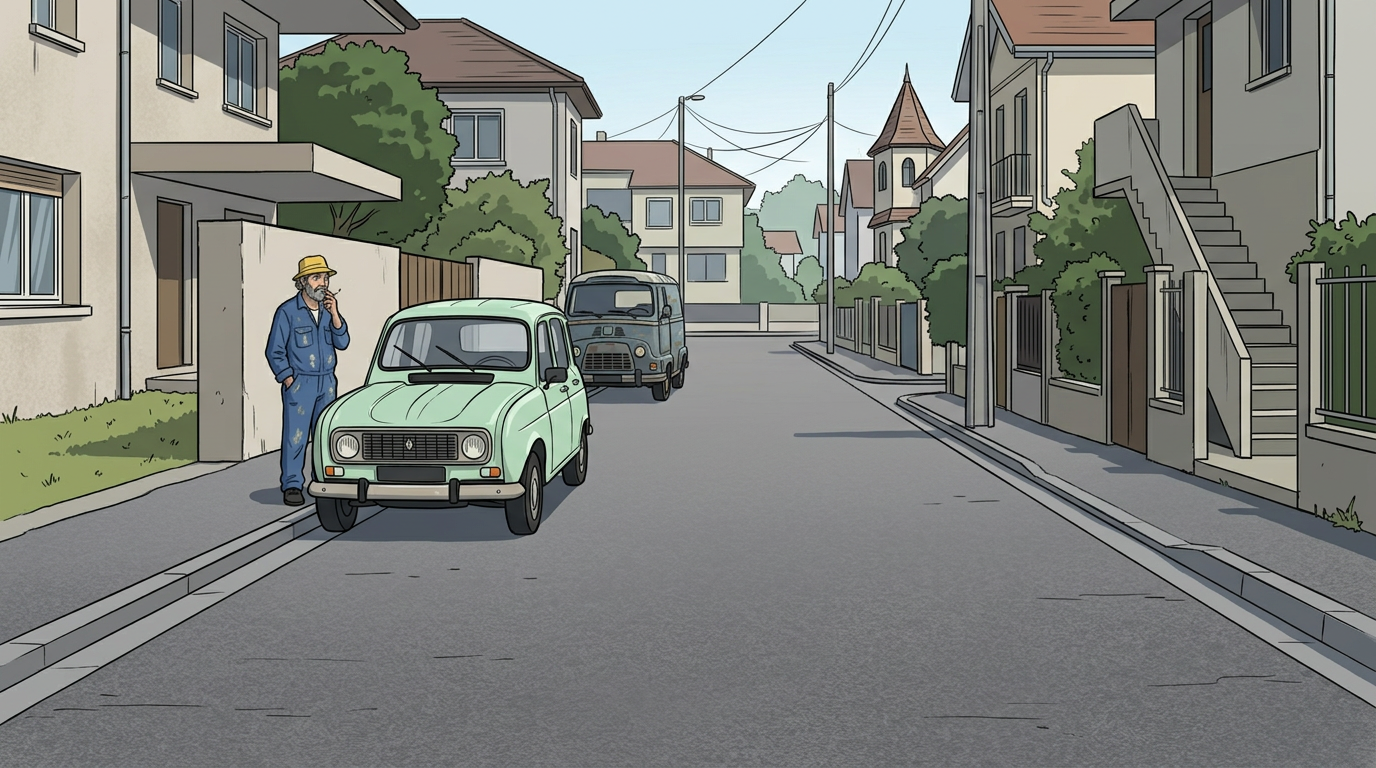
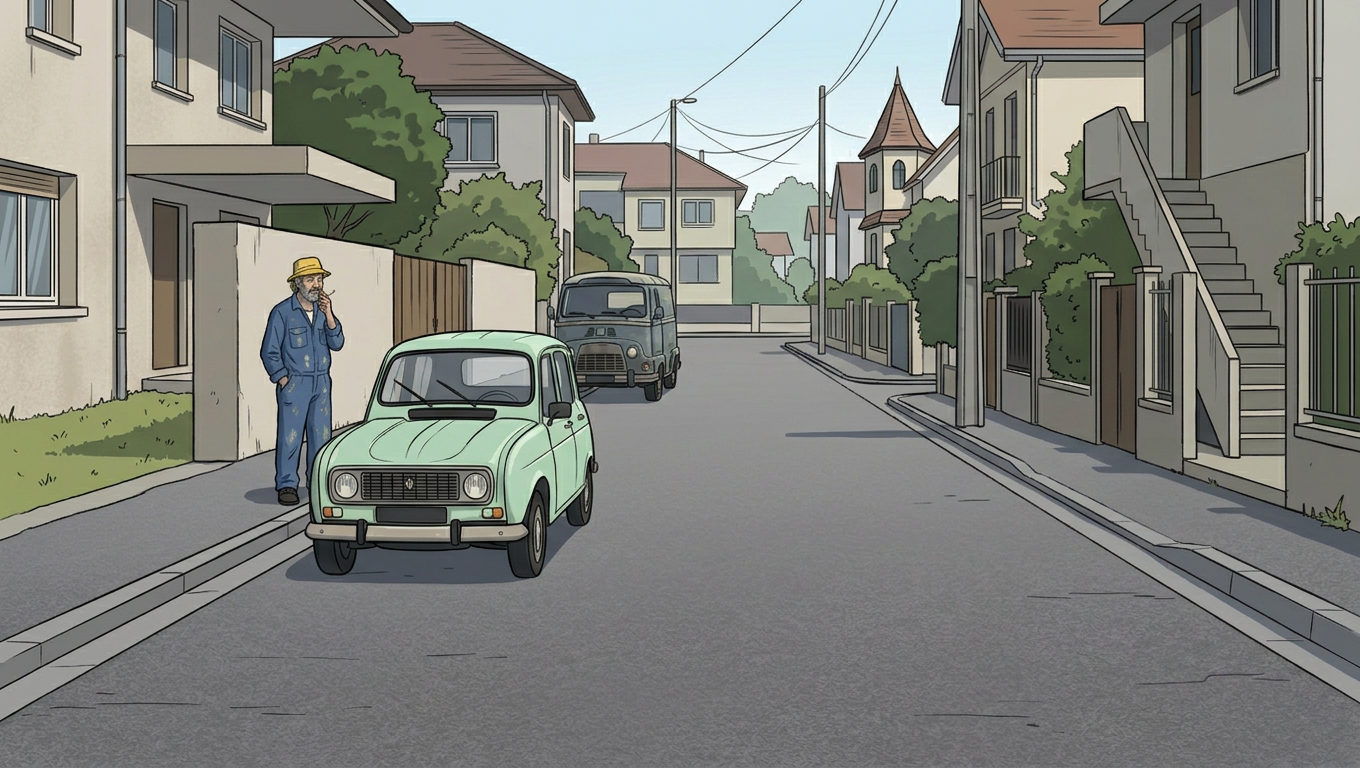
Corrige le repère maître P01

diff --git a/docs/storyboard-images.md b/docs/storyboard-images.md
@@ -1,31 +1,31 @@
 # Suivi des images du storyboard
 
-**Images de base : 29/29 poussées. Audit de cohérence : en cours ; P01 master, P02–P03, P04, P05 (laisse d'Enji), P11 et P12 révisés avec échelle/repères fixes.** Les autres plans signalés seront repris une par une, avec suivi et push à chaque correction. Les annotations détaillées et les mouvements de caméra finaux restent après cet audit, puis viendra le montage complet du storyboard.
+**Images de base : 29/29 présentes sur la branche. Audit de cohérence : toujours en cours, non validé.** P01 vient d'être repris comme nouveau repère maître : 4L unique, 3/4 avant, nez vers le narrateur, entièrement sur l'asphalte avec écart visible du trottoir. Les P02–P07, P11–P15 et les autres plans avec voiture/Diego restent à contrôler ou réaligner sur ce master ; ne pas les déclarer validés par défaut. Chaque correction validée sera poussée et suivie. Les annotations détaillées et les mouvements de caméra finaux restent après l'audit complet, puis viendra le montage du storyboard.
 
 ## Verrou de continuité spatiale
 
-- P01 est la carte maîtresse révisée. La 4L reste toujours au même emplacement devant chez Jeannot, sur l'asphalte contre le trottoir gauche, avec le nez orienté vers le point de vue du narrateur ; elle ne change ni de place, ni d'orientation, ni d'échelle de référence entre les plans larges. **Une seule 4L par plan.**
+- P01 est la nouvelle carte maîtresse à réaligner/valider. La 4L reste toujours au même emplacement devant chez Jeannot, côté gauche de la rue et entièrement sur l'asphalte, avec le nez orienté vers le point de vue du narrateur et un espace visible entre les pneus et le trottoir ; elle ne change ni de place, ni d'orientation, ni d'échelle de référence entre les plans larges. **Une seule 4L par plan ; l'Estafette, plus loin, doit rester clairement un fourgon distinct.**
 - Jeannot reste près de sa 4L/maison sauf déplacement explicite dans l'action ; pas de Jeannot isolé au fond ou au milieu de la rue sans motivation.
 - L'Estafette, silhouette de fourgon bleu-gris distincte, reste plus loin au même trottoir gauche, vers Diego. La Coccinelle orange reste à son aire de réparation, sur parpaings, et n'apparaît dans la rue que si un plan le justifie.
 - Les changements de cadrage viennent de la caméra, jamais d'un déplacement implicite des voitures. Pour chaque nouvelle image, reprendre P01 révisé et le plan adjacent comme références de décor, d'axe, d'échelle et de position.
 
 | Plan | Image | État |
 |---|---|---|
-| P01 | [`assets/storyboards/p01-establishing-street.png`](../assets/storyboards/p01-establishing-street.png) | 🔁 Révisée — 4L unique, échelle réaliste sur l'asphalte, repère maître |
-| P02 | [`assets/storyboards/p02-jeannot-enji-v2.png`](../assets/storyboards/p02-jeannot-enji-v2.png) | 🔁 Révisée sur P01 — une seule 4L à sa place fixe ; Enji en traversée |
-| P03 | [`assets/storyboards/p03-street-geography.png`](../assets/storyboards/p03-street-geography.png) | 🔁 Révisée sur P01 — géographie, 4L unique à son repère |
-| P04 | [`assets/storyboards/p04-jeannot-first-verse.png`](../assets/storyboards/p04-jeannot-first-verse.png) | 🔁 Reprise — geste de cigarette, 4L fixée à l'échelle et au repère P01 |
-| P05 | [`assets/storyboards/p05-witch-leaves.png`](../assets/storyboards/p05-witch-leaves.png) | 🔁 Reprise sur P01 — 4L à taille et place fixes ; sorcière tient Enji en laisse |
-| P06 | [`assets/storyboards/p06-henri-runs.png`](../assets/storyboards/p06-henri-runs.png) | 🔁 Reprise sur P01 — une seule 4L fixe, course d'Henri lisible |
-| P07 | [`assets/storyboards/p07-witch-returns.png`](../assets/storyboards/p07-witch-returns.png) | 🔁 Reprise sur P01 — tourelle et 4L à leurs repères fixes |
+| P01 | [`assets/storyboards/p01-establishing-street.png`](../assets/storyboards/p01-establishing-street.png) | 🔁 Recalée — 4L unique en 3/4 avant, nez vers narrateur, toutes roues sur l'asphalte ; nouveau repère maître à propager |
+| P02 | [`assets/storyboards/p02-jeannot-enji-v2.png`](../assets/storyboards/p02-jeannot-enji-v2.png) | ⏳ À réaligner sur le nouveau P01 ; vérifier place/orientation de la 4L et conserver Enji en traversée |
+| P03 | [`assets/storyboards/p03-street-geography.png`](../assets/storyboards/p03-street-geography.png) | ⏳ À réaligner sur le nouveau P01 ; vérifier géographie et 4L unique au repère |
+| P04 | [`assets/storyboards/p04-jeannot-first-verse.png`](../assets/storyboards/p04-jeannot-first-verse.png) | ⏳ À réaligner sur le nouveau P01 ; geste cigarette existant à conserver et vérifier |
+| P05 | [`assets/storyboards/p05-witch-leaves.png`](../assets/storyboards/p05-witch-leaves.png) | ⏳ À réaligner sur le nouveau P01 ; conserver impérativement Enji en laisse |
+| P06 | [`assets/storyboards/p06-henri-runs.png`](../assets/storyboards/p06-henri-runs.png) | ⏳ À réaligner sur le nouveau P01 ; préserver la course lisible d'Henri |
+| P07 | [`assets/storyboards/p07-witch-returns.png`](../assets/storyboards/p07-witch-returns.png) | ⏳ À réaligner sur le nouveau P01 ; conserver la sorcière à la tourelle |
 | P08 | [`assets/storyboards/p08-henri-stair-fall.png`](../assets/storyboards/p08-henri-stair-fall.png) | ✅ Poussée — appui main/genou, sans rotation ni gore |
 | P09 | [`assets/storyboards/p09-jeannot-victory-pose.png`](../assets/storyboards/p09-jeannot-victory-pose.png) | ✅ Poussée — pose héroïque, 4L intacte |
 | P10 | [`assets/storyboards/p10-jeannot-stays.png`](../assets/storyboards/p10-jeannot-stays.png) | ✅ Poussée — gros plan, Jeannot reste dans la rue |
-| P11 | [`assets/storyboards/p11-4l-in-street.png`](../assets/storyboards/p11-4l-in-street.png) | 🔁 Corrigée — emplacement et orientation verrouillés comme P01 |
-| P12 | [`assets/storyboards/p12-diego-watches.png`](../assets/storyboards/p12-diego-watches.png) | 🔁 Corrigée — 4L devant, Estafette derrière même côté ; Diego ne montre que tête/épaule |
+| P11 | [`assets/storyboards/p11-4l-in-street.png`](../assets/storyboards/p11-4l-in-street.png) | ⏳ À comparer au nouveau P01 ; verrouiller emplacement, orientation avant et échelle |
+| P12 | [`assets/storyboards/p12-diego-watches.png`](../assets/storyboards/p12-diego-watches.png) | ⏳ À réaligner sur le nouveau P01 ; conserver l'Estafette distincte et Diego tête/épaule seulement |
 | P13 | [`assets/storyboards/p13-witch-watches.png`](../assets/storyboards/p13-witch-watches.png) | ✅ Poussée — la sœur observe Diego depuis la tourelle |
-| P14 | [`assets/storyboards/p14-diego-rattles-4l.png`](../assets/storyboards/p14-diego-rattles-4l.png) | ✅ Poussée — secousse comique, 4L intacte |
-| P15 | [`assets/storyboards/p15-final-fight-standoff.png`](../assets/storyboards/p15-final-fight-standoff.png) | ✅ Poussée — duel installé dans la rue |
+| P14 | [`assets/storyboards/p14-diego-rattles-4l.png`](../assets/storyboards/p14-diego-rattles-4l.png) | ⚠ À corriger — identité de Jeannot/figurants et repère 4L ambigus ; visage de Diego à harmoniser |
+| P15 | [`assets/storyboards/p15-final-fight-standoff.png`](../assets/storyboards/p15-final-fight-standoff.png) | ⚠ À corriger — axe/décor et géographie de Diego à valider contre le master, conserver son visage approuvé |
 | P16 | [`assets/storyboards/p16-final-combat.png`](../assets/storyboards/p16-final-combat.png) | ✅ Poussée — annonce du duel final |
 | P17 | [`assets/storyboards/p17-jeannot-advantage.png`](../assets/storyboards/p17-jeannot-advantage.png) | ✅ Poussée — Jeannot prend l'avantage sans contact violent |
 | P18 | [`assets/storyboards/p18-jeannot-power-up.png`](../assets/storyboards/p18-jeannot-power-up.png) | ✅ Poussée — transformation, cigarette et 4L à sa place fixe |

diff --git a/docs/storyboard.md b/docs/storyboard.md
@@ -28,7 +28,7 @@
 
 | Plan | Temps | Paroles | Image, jeu et caméra |
 |---|---:|---|---|
-| P01 | 00:00–00:05 | Instrumental | Plan général maître de la rue, avec avant-plan dégagé. Une 4L vert menthe unique, à échelle réaliste, reste sur l'asphalte au bord du trottoir gauche devant chez Jeannot ; l'Estafette bleu-gris est plus loin sur le même côté. [Image-clé révisée](../assets/storyboards/p01-establishing-street.png). |
+| P01 | 00:00–00:05 | Instrumental | Plan général maître de la rue, avec avant-plan dégagé. Une seule 4L vert menthe, en 3/4 avant et nez vers le narrateur, reste à taille réaliste entièrement sur l'asphalte, avec un écart visible du trottoir gauche devant chez Jeannot ; l'Estafette bleu-gris, plus haute et distincte, reste plus loin sur le même côté. Cette géométrie et cette orientation sont le repère fixe des plans larges. [Image-clé révisée](../assets/storyboards/p01-establishing-street.png). |
 | P02 | 00:05–00:10 | Instrumental | Glissement vers la maison de Jeannot et sa 4L vert menthe, rouillée mais intacte. Jeannot respire, décale son poids et tient sa cigarette ; Enji traverse le cadre pour son gag. [Image-clé de travail, à valider](../assets/storyboards/p02-jeannot-enji-v2.png). |
 | P03 | 00:10–00:16,35 | Instrumental | Pan vers la maison voisine et l'escalier d'Henri, puis vers la tourelle de la sorcière et l'autre bout de la rue où se trouve Diego. Finir le mouvement sur Jeannot, prêt pour la première entrée vocale. [Image-clé](../assets/storyboards/p03-street-geography.png). |
 
